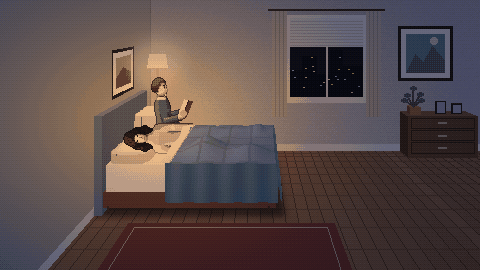
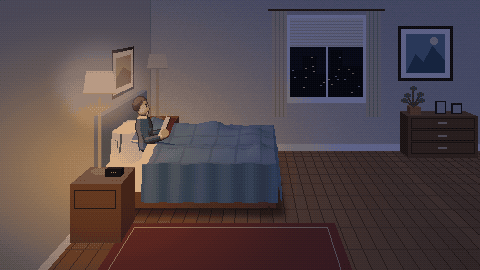
Bedroom: Daniel in front, wife hidden under the quilt
Copilot-Session: 48b1f343-eaed-443c-bf62-ac5dde3a540b

diff --git a/tools/art/act2_rooms.py b/tools/art/act2_rooms.py
@@ -624,15 +624,14 @@ def build_office():
 # ------------------------------------------------------------------------------------------------ DANIEL'S BEDROOM
 
 # the couple were painted at the standing height of the other rooms and filled the bed; in bed they read smaller
-BED_FIGURE_H = 62
+BED_FIGURE_H = 54
 
 
-def _bed_figures(sD, sW):
-    """Daniel sitting up in bed reading, seen in profile, and his wife asleep on her side facing the room (head and
-    shoulders only: the quilt covers the rest, top of the head towards the headboard). Returns RGBA crops, the hands'
-    offset from Daniel's seat corner and the wife's crop."""
+def _bed_figures(sD):
+    """Daniel sitting up in bed reading, seen in profile. His wife is never painted: she sleeps behind him with the
+    quilt pulled over her head. Returns the RGBA crop and the hands' offset from his seat corner."""
     from .figure import figure, pose
-    from .sprites import DANIEL, ELEANOR
+    from .sprites import DANIEL
     hD = BED_FIGURE_H * sD
     ps = pose(90, legs={1: (86, 0, 0), -1: (84, 4, 0)}, arms={1: ("swing", 22, 4, 82), -1: ("swing", 28, 4, 78)},
               lean=-7.0, nod=0.01)
@@ -640,22 +639,13 @@ def _bed_figures(sD, sW):
     a.putalpha(a.getchannel("A").point(lambda v: 255 if v >= 250 else 0))
     a = a.crop(a.getbbox())
     hand = (0.31 * hD, -0.255 * hD)
-    hW = BED_FIGURE_H * sW
-    wife = dict(ELEANOR, h=hW, hair="2e1c14", torso="c4b0cc", sleeves="ecc4a2", neckline=0.262, asleep=True,
-                lips="b0645a", decals=[])
-    wife.pop("coat", None)
-    b = figure(wife, pose(0, arms={1: ("swing", 2, 4, 6), -1: ("swing", 2, 4, 6)}), int(hW * 0.6), int(hW * 1.1))
-    b.putalpha(b.getchannel("A").point(lambda v: 255 if v >= 250 else 0))
-    bb = b.getbbox()
-    # head, neck and the near shoulder; the quilt covers everything below that
-    b = b.crop((bb[0], bb[1], bb[2], int(bb[1] + 0.64 * hW))).rotate(90, expand=True)
-    return a, hand, b
+    return a, hand
 
 
 def paint_bedroom():
     """Present day, past one in the morning. A double bed side-on, headboard against the left wall: Daniel sits up on
-    the far side reading Micah's journal by his lamp; his wife sleeps on the near side, turned towards the room.
-    Returns the picture, Daniel's head and the wife's head (speech anchors)."""
+    the near side reading Micah's journal by his lamp; behind him his wife sleeps on the far side, the quilt pulled
+    over her head and her lamp off. Returns the picture, Daniel's head and the wife's head (speech anchors)."""
     import math
     import numpy as np
     from .furniture import Room3D
@@ -739,21 +729,26 @@ def paint_bedroom():
     R.quad(img, [(196, 0, 108), (296, 0, 108), (296, 0, 150), (196, 0, 150)], hx("7a3a34"))
     R.quad(img, [(200, 0.05, 111), (292, 0.05, 111), (292, 0.05, 147), (200, 0.05, 147)], None, hx("c8a888"))
 
-    # ---- Daniel's nightstand, in the far corner ----
+    # ---- her nightstand, in the far corner: her lamp is off ----
     wood, wood_d, wood_l = hx("6a4630"), hx("46301e"), hx("86603f")
-    R.box(img, WX, WX + 22, 0, 26, 2, 22, wood, top=wood_l, side=wood_d)
-    R.quad(img, [(WX + 2, 15, 22), (WX + 20, 15, 22), (WX + 20, 23, 22), (WX + 2, 23, 22)], None, hx("2a1c10"))
-    R.box(img, WX + 12, WX + 19, 26, 29, 10, 13, hx("161616"), top=hx("2a2a2a"))  # the alarm clock
-    clk = R.P(WX + 15.5, 27.5, 13)
-    # his lamp (lit): painted bright so the night grade leaves it glowing warm
-    lamp = R.P(WX + 7, 26, 8)
-    d.rectangle([lamp[0] - 1, lamp[1] - 52, lamp[0] + 1, lamp[1]], fill=hx("b0a080"))
-    d.ellipse([lamp[0] - 5, lamp[1] - 2, lamp[0] + 5, lamp[1] + 2], fill=hx("8a7a5a"))
-    light(img, "ellipse", [lamp[0] - 26, lamp[1] - 80, lamp[0] + 26, lamp[1] - 30], hx("fff4d0"), 0.5, 8)
-    d.polygon([(lamp[0] - 10, lamp[1] - 50), (lamp[0] + 10, lamp[1] - 50), (lamp[0] + 8, lamp[1] - 64),
-               (lamp[0] - 8, lamp[1] - 64)], fill=hx("fffff0"))
-    d.line([(lamp[0] - 10, lamp[1] - 50), (lamp[0] + 10, lamp[1] - 50)], fill=hx("f0d090"))
-    # ---- the bed: X0 headboard .. X1 foot, Z0 far side .. Z1 near side ----
+
+    def nightstand(z0, z1, lit):
+        R.box(img, WX, WX + 22, 0, 26, z0, z1, wood, top=wood_l, side=wood_d)
+        R.quad(img, [(WX + 2, 15, z1), (WX + 20, 15, z1), (WX + 20, 23, z1), (WX + 2, 23, z1)], None, hx("2a1c10"))
+        k = R.s((z0 + z1) / 2) / R.s(12)
+        base = R.P(WX + 7, 26, (z0 + z1) / 2 - 4)
+        x, y = base
+        d.rectangle([x - 1, y - 52 * k, x + 1, y], fill=hx("b0a080"))
+        d.ellipse([x - 5 * k, y - 2 * k, x + 5 * k, y + 2 * k], fill=hx("8a7a5a"))
+        if lit:  # painted bright so the night grade leaves it glowing warm
+            light(img, "ellipse", [x - 26 * k, y - 80 * k, x + 26 * k, y - 30 * k], hx("fff4d0"), 0.5, 8)
+        shade = [(x - 10 * k, y - 50 * k), (x + 10 * k, y - 50 * k), (x + 8 * k, y - 64 * k), (x - 8 * k, y - 64 * k)]
+        d.polygon(shade, fill=hx("fffff0") if lit else hx("c8bca4"))
+        d.line(shade[:2], fill=hx("f0d090") if lit else hx("a89c84"))
+        return base
+
+    nightstand(2, 22, False)
+    # ---- the bed: X0 headboard .. X1 foot, Z0 far side (hers) .. Z1 near side (his) ----
     X0, X1, Z0, Z1, TOP_ = WX, WX + 92, 26, 98, 24
     shadow(img, "polygon", [R.P(X0, 0, Z0 - 2), R.P(X1 + 3, 0, Z0 - 2), R.P(X1 + 5, 0, Z1 + 3), R.P(X0, 0, Z1 + 3)],
            0.55, 3)
@@ -786,39 +781,38 @@ def paint_bedroom():
         cc = R.P(cx_ + lean, y1, cz_)
         d.polygon([(cc[0] + (p[0] - cc[0]) * 0.82, cc[1] + (p[1] - cc[1]) * 0.75) for p in crown], fill=hx("f2eee6"))
 
-    pillow(X0 + 5, X0 + 19, Z0 + 3, Z0 + 31, TOP_, 40, lean=1.0)  # Daniel's, propped up against the headboard
-    pillow(X0 + 5, X0 + 25, Z0 + 37, Z1 - 4, TOP_, 29)            # hers, flat
+    pillow(X0 + 5, X0 + 25, Z0 + 3, Z0 + 33, TOP_, 29)                # hers, flat, under the quilt
+    pillow(X0 + 5, X0 + 19, Z0 + 41, Z1 - 4, TOP_, 40, lean=1.0)      # his, propped up against the headboard
 
-    # ---- the people ----
-    zD, zW = Z0 + 17, Z0 + 52
-    dan, hand, wife = _bed_figures(R.s(zD), R.s(zW))
-    seat = R.P(X0 + 13, TOP_ - 1, zD)
-    img.paste(dan.convert("RGB"), (int(seat[0]), int(seat[1] - dan.height)), dan)
-    dan_head = (int(seat[0] + dan.width * 0.32), int(seat[1] - dan.height))
-    hp = R.P(X0 + 7, TOP_ + 7, zW)  # where the crown of her head rests on the pillow
-    wpos = (int(hp[0]), int(hp[1] - wife.height * 0.55))
-    img.paste(wife.convert("RGB"), wpos, wife)
-    wife_head = (int(hp[0] + wife.width * 0.3), wpos[1])
+    # ---- the quilt: a height field over the two of them. On her side it's pulled right up over her head; on his it
+    # starts at his waist, its edge folded back ----
+    zD, zW = Z0 + 55, Z0 + 18
+    QX1 = X1 + 1.5
 
-    # ---- the quilt: a height field over the two of them, its top edge folded back under her chin ----
-    QX0, QX1 = X0 + 36, X1 + 1.5
+    def qstart(z):
+        t = min(max((z - (Z0 + 34)) / 12.0, 0.0), 1.0)
+        return X0 + 6 + 18 * t * t * (3 - 2 * t)
 
     def hgt(x, z):
         h = TOP_ + 1.5
+        h += 5.5 * math.exp(-((x - (X0 + 15)) / 11.0) ** 4 - ((z - (Z0 + 18)) / 16.0) ** 4)  # her pillow
+        h += 4.5 * math.exp(-((x - (X0 + 15)) / 5.5) ** 2 - ((z - zW) / 6.0) ** 2)         # her head
+        # her body: one long ridge from shoulder to hip, so there's no dip at her waist
+        h += 5.5 * math.exp(-((x - (X0 + 44)) / 21.0) ** 4 - ((z - zW) / 9.5) ** 2)
+        h += 1.0 * math.exp(-((x - (X0 + 30)) / 6.0) ** 2 - ((z - zW) / 8.0) ** 2)         # shoulder
+        h += 2.0 * math.exp(-((x - (X0 + 55)) / 9.0) ** 2 - ((z - zW) / 10.0) ** 2)        # hip
+        h += 3.5 * math.exp(-((x - (X0 + 76)) / 8.0) ** 2 - ((z - zW - 7) / 9.0) ** 2)     # drawn-up knees
+        h += 2.5 * math.exp(-((x - (X1 - 10)) / 7.0) ** 2 - ((z - zW - 3) / 8.0) ** 2)     # feet
         t = min(max((x - (X0 + 20)) / (X1 - X0 - 24), 0), 1)
-        h += (3.6 - 1.2 * t) * math.exp(-((z - zD) / 7.5) ** 2)                      # his legs
-        h += 3.5 * math.exp(-((x - (X1 - 9)) / 4.0) ** 2 - ((z - zD) / 6.0) ** 2)    # toes
-        h += 6.0 * math.exp(-((x - (X0 + 27)) / 7.0) ** 2 - ((z - zW) / 10.0) ** 2)  # her shoulder
-        h += 7.5 * math.exp(-((x - (X0 + 54)) / 10.0) ** 2 - ((z - zW) / 11.0) ** 2)  # hip
-        h += 4.0 * math.exp(-((x - (X0 + 76)) / 8.0) ** 2 - ((z - zW - 7) / 9.0) ** 2)  # drawn-up knees
-        h += 2.5 * math.exp(-((x - (X1 - 10)) / 7.0) ** 2 - ((z - zW - 3) / 8.0) ** 2)  # feet
+        h += (3.6 - 1.2 * t) * math.exp(-((z - zD) / 7.5) ** 2)                            # his legs
+        h += 3.5 * math.exp(-((x - (X1 - 9)) / 4.0) ** 2 - ((z - zD) / 6.0) ** 2)          # toes
         return h + 0.35 * math.sin(x * 0.3 + z * 0.2)
 
     q_dark, q_light = np.array(hx("34506c")), np.array(hx("7c9ab4"))
     L = np.array([-0.45, 0.8, 0.4])
     L /= np.linalg.norm(L)
     step = 1.5
-    xs = np.arange(QX0, QX1 + 0.01, step)
+    xs = np.arange(X0 + 6, QX1 + 0.01, step)
     zs = np.arange(Z0 - 1, Z1 + 1.01, step)
     Hm = np.array([[hgt(x, z) for x in xs] for z in zs])
 
@@ -828,22 +822,39 @@ def paint_bedroom():
         c = q_dark + (q_light - q_dark) * (0.25 + 0.75 * k)
         return tuple(int(v * (0.9 if seam else 1.0)) for v in c)
 
-    for j in range(len(zs) - 1):
-        for i in range(len(xs) - 1):
-            x, z = xs[i], zs[j]
-            n = np.array([-(Hm[j, i + 1] - Hm[j, i]) / step, 1.0, -(Hm[j + 1, i] - Hm[j, i]) / step])
-            seam = (x - QX0) % 14 < step * 0.99 or (z - Z0) % 14 < step * 0.99
-            R.quad(img, [(x, Hm[j, i], z), (x + step, Hm[j, i + 1], z), (x + step, Hm[j + 1, i + 1], z + step),
-                         (x, Hm[j + 1, i], z + step)], qcol(n, seam))
-    # the folded-back band of sheet along the top edge
-    for j in range(len(zs) - 1):
-        z = zs[j]
-        R.quad(img, [(QX0 - 2.5, Hm[j, 0] + 0.5, z), (QX0 + 2, Hm[j, 1] + 0.5, z), (QX0 + 2, Hm[j + 1, 1] + 0.5, z + step),
-                     (QX0 - 2.5, Hm[j + 1, 0] + 0.5, z + step)], hx("f0ece4"))
-    R.line(img, (QX0 + 2, Hm[0, 1] + 0.5, zs[0]), (QX0 + 2, Hm[-1, 1] + 0.5, zs[-1]), hx("c0bab0"))
+    def quilt_rows(rows):
+        for j in rows:
+            z = zs[j]
+            x0 = qstart(z)
+            for i in range(len(xs) - 1):
+                x = xs[i]
+                if x < x0 - step / 2:
+                    continue
+                n = np.array([-(Hm[j, i + 1] - Hm[j, i]) / step, 1.0, -(Hm[j + 1, i] - Hm[j, i]) / step])
+                seam = (x - X0) % 14 < step * 0.99 or (z - Z0) % 14 < step * 0.99
+                R.quad(img, [(x, Hm[j, i], z), (x + step, Hm[j, i + 1], z), (x + step, Hm[j + 1, i + 1], z + step),
+                             (x, Hm[j + 1, i], z + step)], qcol(n, seam))
+            if x0 > X0 + 8:  # on his side the top edge is a folded-back band of sheet
+                x1 = qstart(z + step)
+                R.quad(img, [(x0 - 2.5, hgt(x0, z) + 0.5, z), (x0 + 2, hgt(x0 + 2, z) + 0.5, z),
+                             (x1 + 2, hgt(x1 + 2, z + step) + 0.5, z + step), (x1 - 2.5, hgt(x1, z + step) + 0.5, z + step)],
+                       hx("f0ece4"))
+
+    # her side of the bed first, then Daniel sitting up in front of it, then his lap and legs
+    split = int(np.searchsorted(zs, zD - 9))
+    quilt_rows(range(0, split))
+    dan, hand = _bed_figures(R.s(zD))
+    seat = R.P(X0 + 13, TOP_ - 1, zD)
+    img.paste(dan.convert("RGB"), (int(seat[0]), int(seat[1] - dan.height)), dan)
+    dan_head = (int(seat[0] + dan.width * 0.32), int(seat[1] - dan.height))
+    quilt_rows(range(split, len(zs) - 1))
+    wh = R.P(X0 + 54, hgt(X0 + 54, zW), zW)  # her hip: the one part of her that shows, behind him
+    wife_head = (int(wh[0]), int(wh[1]))
     # the drape over the near side and the foot, in soft vertical folds
     for i in range(len(xs) - 1):
         x = xs[i]
+        if x < qstart(Z1) - step / 2:
+            continue
         f = 0.5 + 0.5 * math.sin(x * 0.5)
         col = tuple(int(v) for v in q_dark + (q_light - q_dark) * (0.18 + 0.3 * f))
         R.quad(img, [(x, Hm[-1, i], Z1 + 1), (x + step, Hm[-1, i + 1], Z1 + 1), (x + step, 7, Z1 + 2 + f),
@@ -854,6 +865,11 @@ def paint_bedroom():
         col = tuple(int(v) for v in q_dark + (q_light - q_dark) * (0.3 + 0.3 * f))
         R.quad(img, [(QX1, Hm[j, -1], z), (QX1, Hm[j + 1, -1], z + step), (QX1 + 1 + f, 7, z + step),
                      (QX1 + 1 + f, 7, z)], col)
+
+    # ---- Daniel's nightstand, on his side in the near corner: the alarm clock and his lamp, lit ----
+    lamp = nightstand(Z1 + 6, Z1 + 26, True)
+    R.box(img, WX + 12, WX + 19, 26, 29, Z1 + 14, Z1 + 17, hx("161616"), top=hx("2a2a2a"))
+    clk = R.P(WX + 15.5, 27.5, Z1 + 17)
 
     # ---- the journal in Daniel's hands: open, its brown leather back towards us ----
     bx, by = seat[0] + hand[0], seat[1] + hand[1]

diff --git a/tests/art/test_location_art.py b/tests/art/test_location_art.py
@@ -173,12 +173,13 @@ class LocationRenderingTests(unittest.TestCase):
         self.assertIn(common.hx("e0a878"), colors)
         self.assertIn(common.hx("100c0a"), colors)
 
-    def test_bedroom_wife_crop_includes_a_shoulder(self):
-        _, _, wife = act2_rooms._bed_figures(1.2, 1.0)
-        box = wife.getbbox()
-        self.assertIsNotNone(box)
-        self.assertGreater(box[2] - box[0], box[3] - box[1])
-        self.assertGreater(box[2] - box[0], 24)
+    def test_bedroom_puts_daniel_in_front_and_hides_his_wife(self):
+        self.assertEqual(len(act2_rooms._bed_figures(1.2)), 2, "only Daniel is painted; she's under the quilt")
+        with contextlib.redirect_stdout(io.StringIO()):
+            _, dan, wife = act2_rooms.paint_bedroom()
+        self.assertGreater(wife[1], dan[1], "her shape under the quilt sits lower than his head")
+        self.assertGreater(wife[0], dan[0])
+
 
 
 if __name__ == "__main__":

diff --git a/docs/art-realism-pass.md b/docs/art-realism-pass.md
@@ -26,7 +26,7 @@ The failures were not “needs more polygons.” They were shapes that did not r
 | Outskirts | A short, narrow skyline and round tree blobs with no underside. | Taller, wider blocks. Tree masses have a darker underside and a lit top. |
 | Harrington road windows | Lit windows were a flat night rectangle. | Dark interiors stay dark; some panes show a shade, a lamp, or a diagonal reflection. The locked lit `ROAD_WINDOW` crop was not moved. |
 | Rose house sidewalk | Even expansion joints. | Joints stagger, with a cracked slab. |
-| Bedroom | Wife crop was `0.3 * hW` (a head). Quilt started at `X0 + 23` and covered the shoulder. | Crop is `0.64 * hW` (head, neck, near shoulder). Quilt starts at `X0 + 36`. Daniel stays in profile so the journal hand offset still lands. |
+| Bedroom | Wife was a rotated head-and-shoulder crop on the near side, reading poorly. | Daniel sits up on the near side, in front; his wife is only a shape under the quilt pulled over her head on the far side, her lamp off. His lit lamp is on a near-side nightstand. |
 | Revolver icon | Barrel and grip only. | Cylinder, front sight, and a short sight line. |
 | Calling card | A heart and a gold point. | `MJ` and a baseline, so it reads as Micah’s card. |
 | Documents / cloth / wedge | Flat paper, one fold, a plain triangle. | A lifted paper corner, extra cloth folds, and wood grain on the wedge. |
